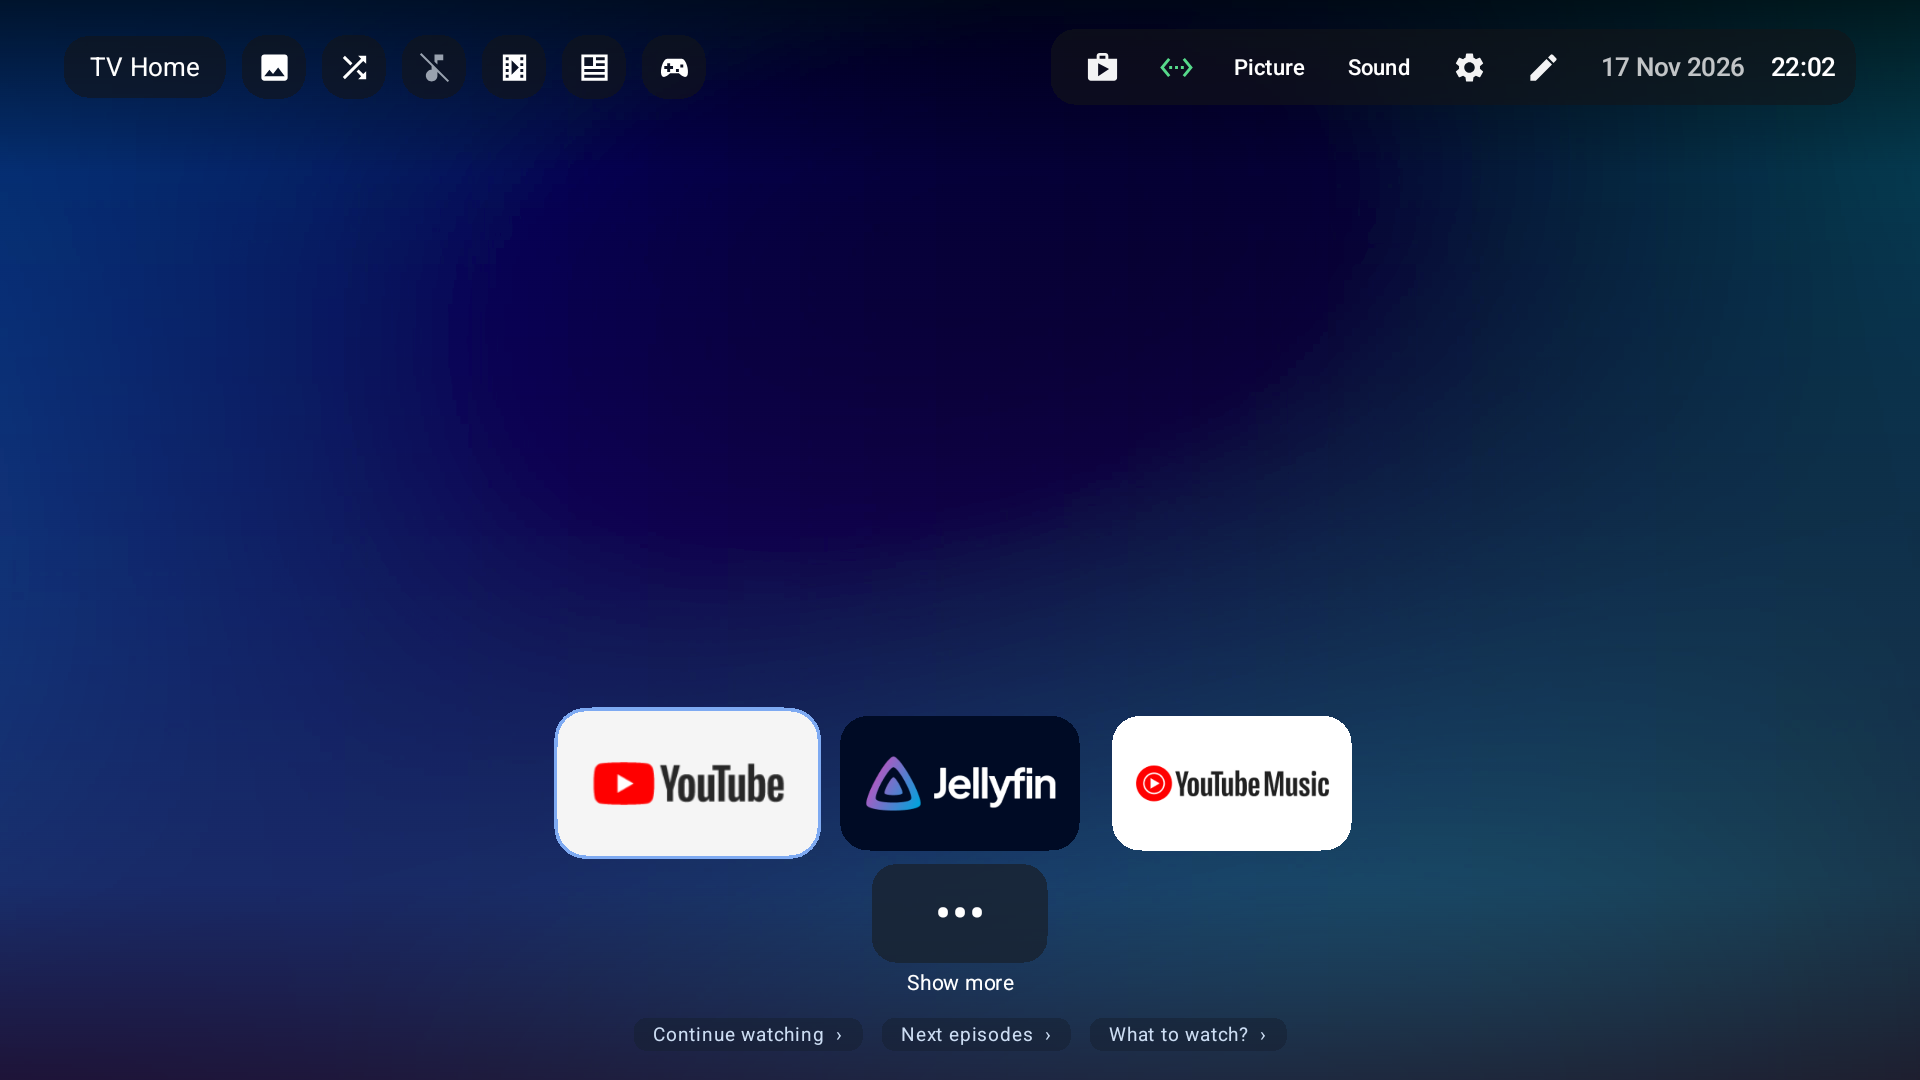
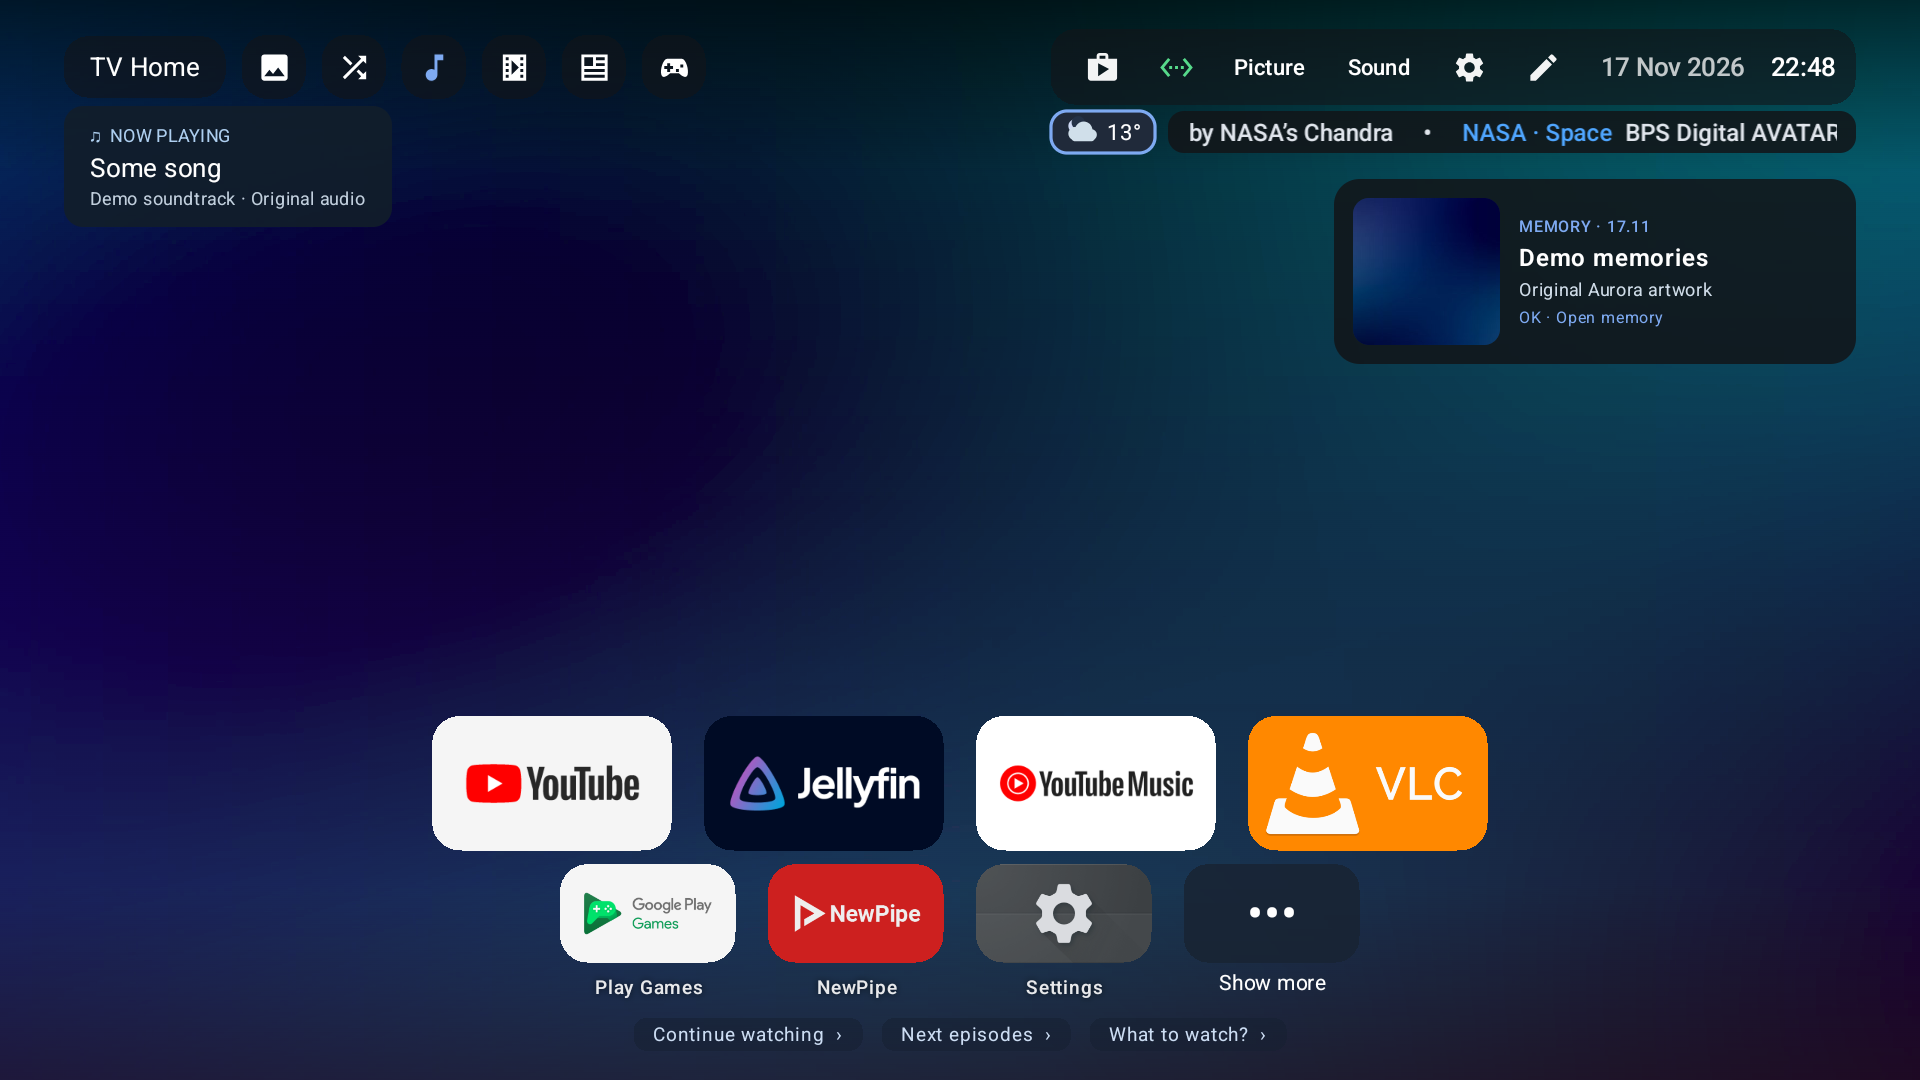
Show complete home setup and translate widget labels in 1.2.1 (#18)

diff --git a/docs/GALLERY.md b/docs/GALLERY.md
@@ -1,6 +1,6 @@
 # Gallery and provenance
 
-Unedited Android emulator screenshots captured from the public edition. Backgrounds are the project's original procedural Aurora, Ocean and Ember loops. Game artwork is drawn by the included source. No personal photos, third-party soundtrack artwork or movie posters are used. The home views show actual installed applications on the emulator. These apps and accounts are not bundled. Media libraries start empty apart from the three included backgrounds.
+Unedited Android emulator screenshots captured from the public edition. Backgrounds are the project's original procedural Aurora, Ocean and Ember loops. Game artwork is drawn by the included source. No personal photos, third-party soundtrack artwork or movie posters are used. The home views show actual installed applications on the emulator. These apps and accounts are not bundled. Media libraries start empty apart from the three included backgrounds. The expanded home captures show an explicitly configured example: four favorites, three other apps and Show more; an optional [NASA RSS feed](https://www.nasa.gov/rss-feeds/); Open-Meteo weather for Paris; a demo memory card using the original Aurora artwork; and original synthesized audio titled Some song. Demo album/audio are emulator-only fixtures, not personal photos or a bundled soundtrack. These source/location selections are not defaults. The short Now playing and memory notifications were captured while naturally visible, without compositing or image edits.
 
 The captures use the English interface. System metrics are emulator measurements, not hardware requirements. Capture hashes and origin descriptions are listed in `screenshots/manifest.json`; new captures need a human privacy/content review. Application interface licensing and third-party icon/font attribution remain as described in [the notices](../THIRD-PARTY-NOTICES.md).
 

diff --git a/docs/TESTING.md b/docs/TESTING.md
@@ -34,3 +34,5 @@ No representative physical-device performance minimum has been established. HDMI
 Version 1.2.0 retains the validated Gradle 8.9 / AGP 8.5.2 / Kotlin 2.0.20 / API 34 toolchain. Kotlin plugins are grouped so that compiler, Compose and serialization updates can be reviewed together. CI action updates are grouped, pinned to full commit hashes, and tested before merging. Security alerts remain enabled.
 
 The release review incorporated graphics-shapes 1.1.0 and refreshed Python, artifact, emulator and CodeQL actions. Standalone proposals for AGP 9.5.1, Compose BOM 2026.09.00 and Kotlin Compose 2.4.21 failed CI: they respectively require newer Gradle, API 37, and migration to the compilerOptions DSL. Gradle 9.9.1 passed its individual checks but was deferred to a coordinated toolchain migration rather than changing the release baseline in isolation. These are deferred maintenance upgrades, not fixes required to install 1.2.0. Future updates must rerun the release checks for both editions.
+
+For the stable 1.2 release line, routine Gradle version proposals are paused (`open-pull-requests-limit: 0`) while the coordinated API/toolchain migration is deferred. Dependency alerts and automated security updates remain enabled; CI action proposals continue monthly as a group. To resume general Gradle proposals, raise that limit after selecting a compatible SDK/AGP/Kotlin/Compose baseline. The version-update limit does not disable security-update PRs ([GitHub reference](https://docs.github.com/en/code-security/reference/supply-chain-security/dependabot-options-reference#open-pull-requests-limit)).

diff --git a/README.md b/README.md
@@ -6,6 +6,8 @@ This independently maintained edition builds on [Couchy Launcher](https://github
 
 ![Couchy TV Open home with an original abstract background](docs/screenshots/home-aurora.png)
 
+*Example setup: seven installed apps, optional news and weather, a memory card, and Now playing. [Screenshot details](docs/GALLERY.md).*
+
 [Download](https://github.com/surzo18/couchy-tv-open/releases/latest) · [User guide](docs/USER-GUIDE.md) · [Feature reference](docs/FEATURES.md) · [Build and tests](docs/TESTING.md) · [Licenses](LICENSING.md)
 
 ## What you can do

diff --git a/CHANGELOG.md b/CHANGELOG.md
@@ -1,5 +1,10 @@
 # Changelog
 
+## 1.2.1
+
+- Translate the home memory card and now-playing notification in English.
+- Expanded gallery with seven installed apps, optional news/weather, and original demo album/audio.
+
 ## 1.2.0
 
 - Optional two-minute wallpaper rotation, enabled by default; lifecycle-aware timer and single-decoder transitions.
